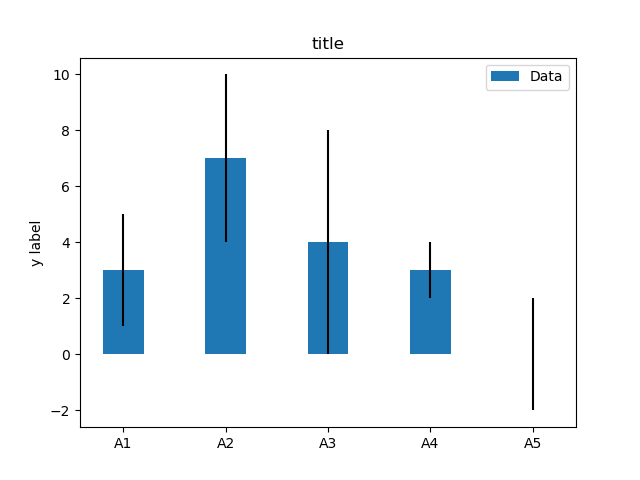
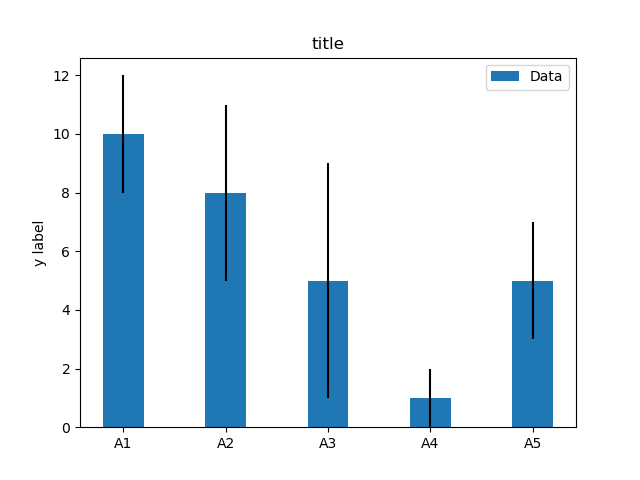
first commit

diff --git a/example.py b/example.py
@@ -2,7 +2,7 @@ import numpy as np
 import matplotlib.pyplot as plt
 
 labels = ['A1', 'A2', 'A3', 'A4', 'A5']
-m_means = [3,7,4,3,0]
+m_means = [10,8,5,1,5]
 m_std = [2, 3, 4, 1, 2]
 width = 0.40       # the width of the bars
 

diff --git a/README.md b/README.md
@@ -1,4 +1,4 @@
-# Matplotlib no 240 
+# Matplotlib no 241 
 
 python example
 
